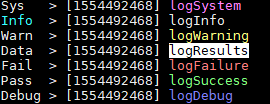
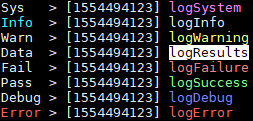
fixed log Error function
also updated log picture

diff --git a/Scripts/qpaceLogger.py b/Scripts/qpaceLogger.py
@@ -196,13 +196,12 @@ class Logger():
         All exceptions raised by this function are ignored.
 
         """
-        log = Colors.RED + ''.join(data) + Colors.DEFAULT
         try:
             if exception is not None:
                 description += ' {}'.format(str(exception.args))
             self.Errors.inc()
-            self.logData('Error','An error is being recorded to the error log. Please check the error log at this timestamp.')
-            return self.logData('Err',description) # Actually log the data.
+            log = Colors.RED + description + Colors.DEFAULT 
+            return self.logData('Error', log) # Actually log the data.
         except Exception:
             Logger.LOG_ATTEMPTS += 1
 
